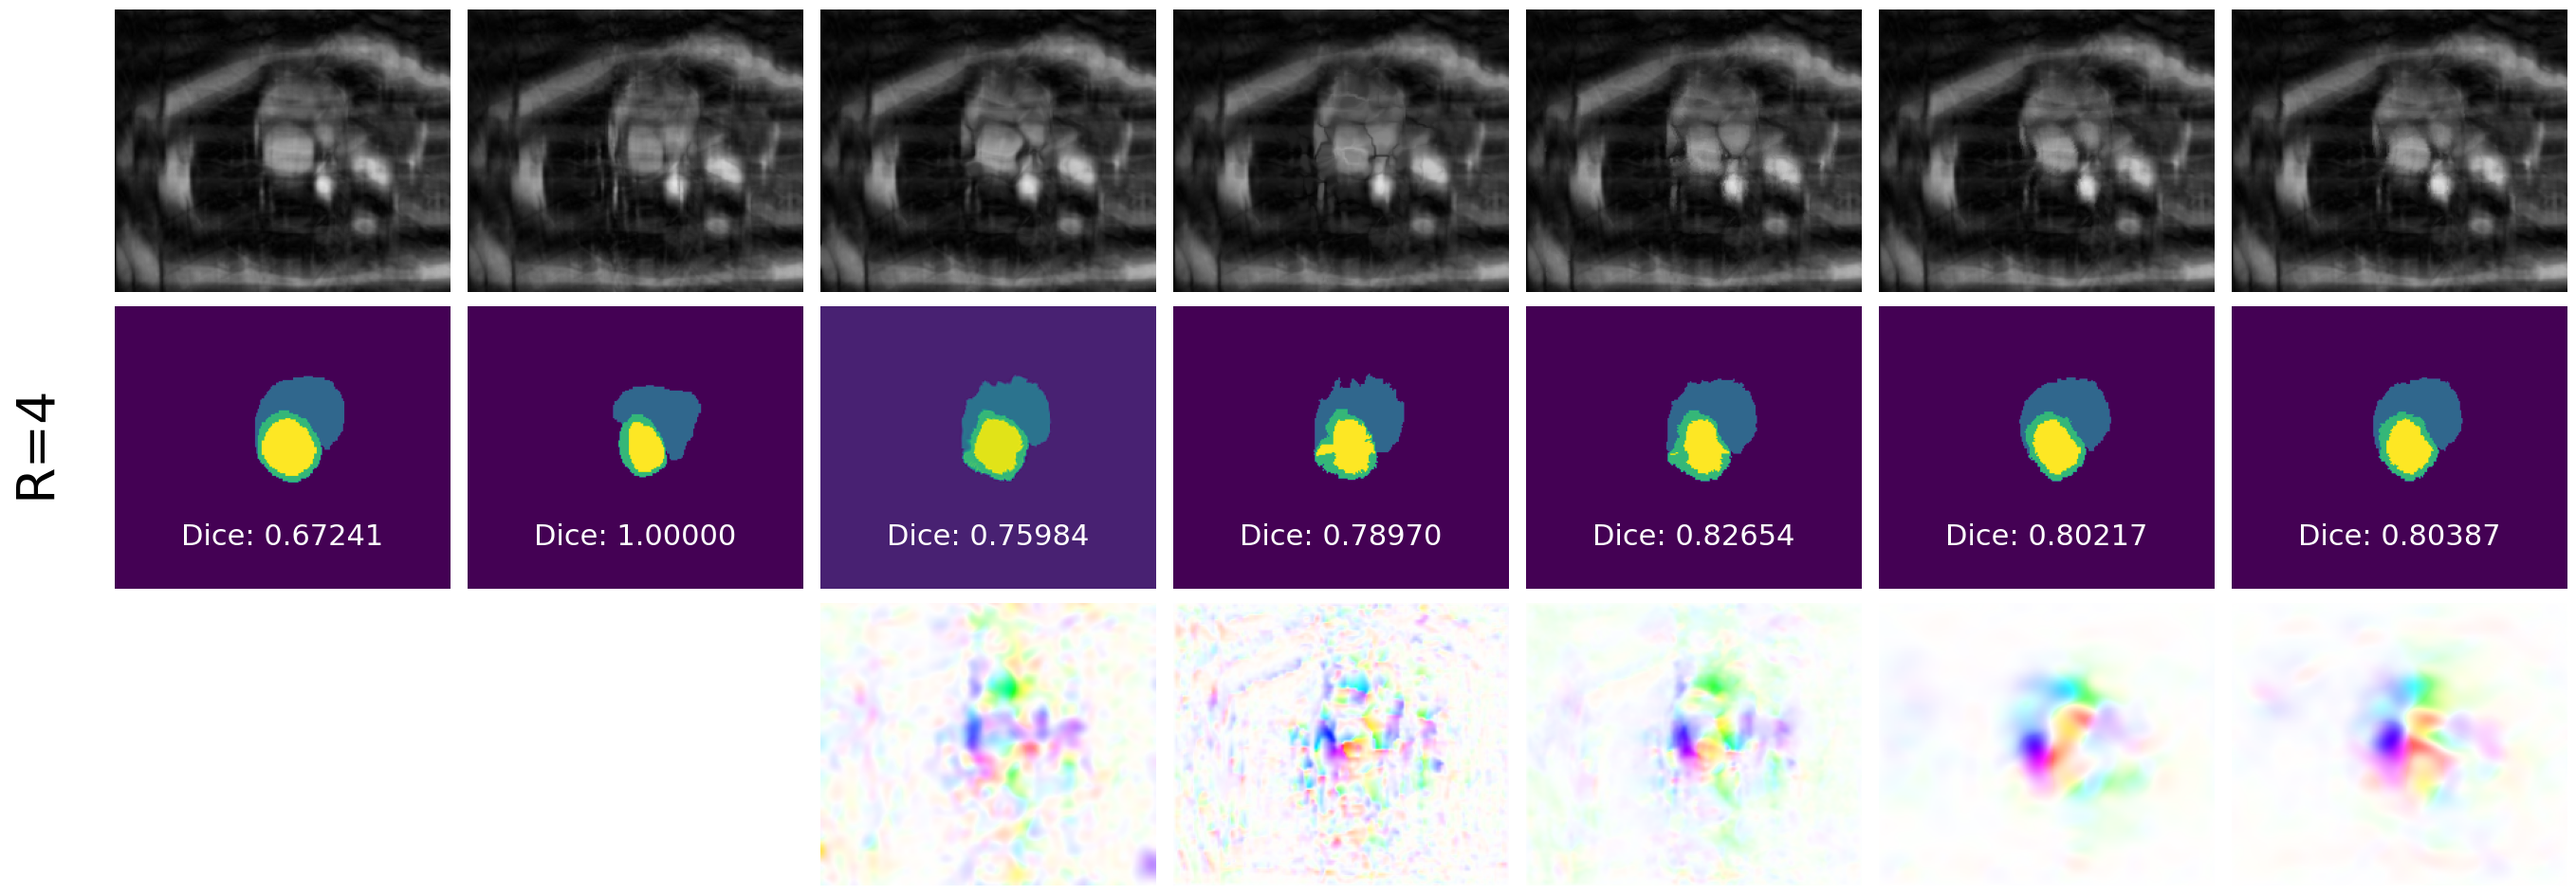
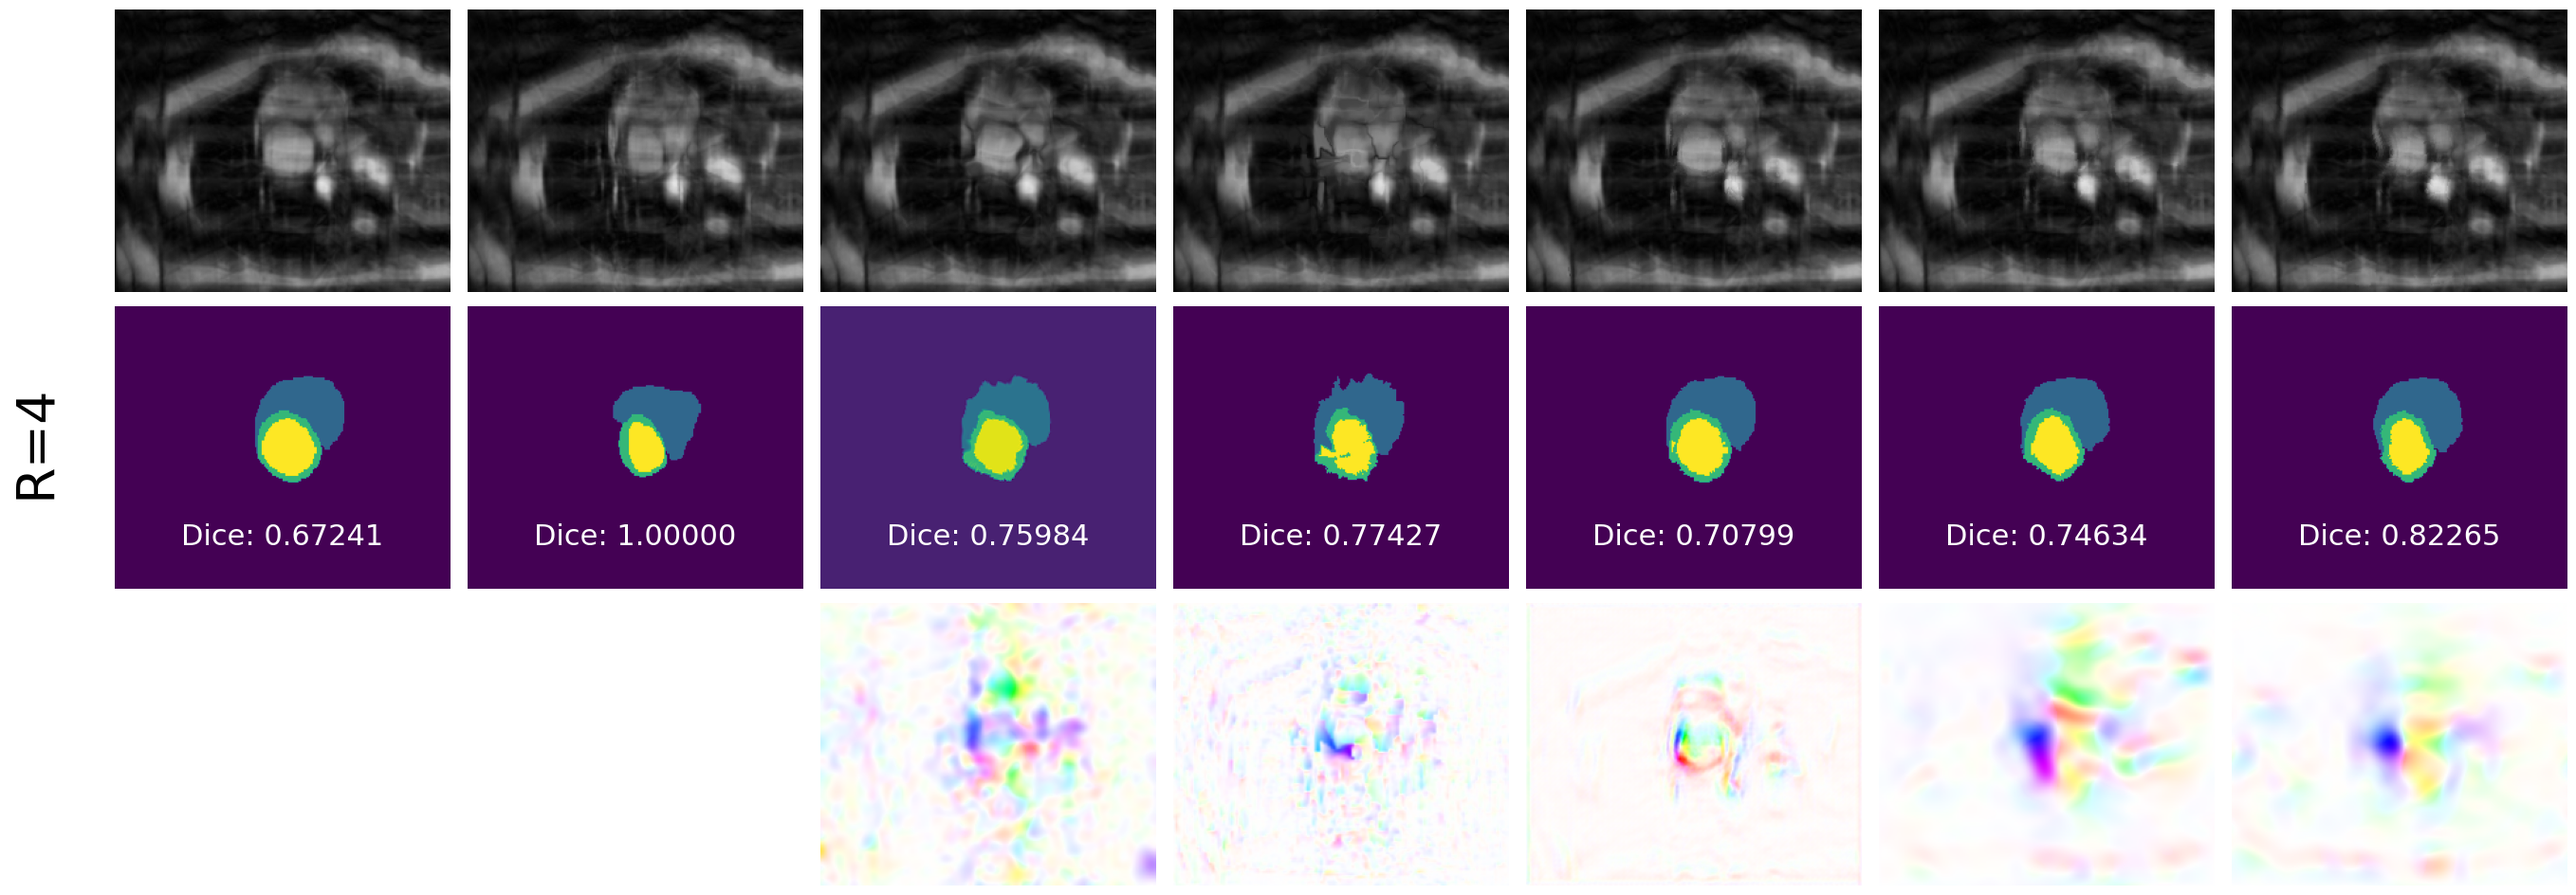
Added script to visualize test examples for contrastive loss and fixed network selection for the normal test examples that caused the deep network to only select networks trained on fully sampled data. Also generated the corresponding figure anew.

diff --git a/2D_CMR_Registration/VisualizeContrastiveLoss.py b/2D_CMR_Registration/VisualizeContrastiveLoss.py
@@ -1,0 +1,157 @@
+import os
+os.environ['NEURITE_BACKEND'] = 'pytorch'
+import matplotlib.pyplot as plt 
+import torch
+import torch.nn.functional as F
+from skimage.io import imread
+import neurite as ne
+from Models import *
+from argparse import ArgumentParser
+from natsort import natsorted
+from os import listdir
+import warnings
+warnings.filterwarnings("ignore")
+import pystrum
+import nibabel
+import flow_vis
+
+parser = ArgumentParser()
+parser.add_argument("--mode", type=int, dest="mode", default='1',
+                    help="choose dataset mode: 4x accelerated (1), 8x accelerated (2) or 10x accelerated (3)")
+opt = parser.parse_args()
+mode = opt.mode
+
+lambdas = [0,0.0005,0.001,0.005,0.01,0.05] # weightings for the contrastive loss
+
+start_channel = 16
+FT_size = [24,24]
+dataset = 'ACDC'
+input_shape = [216,256]
+diffeo = 0
+device = torch.device("cpu") #"cuda" if torch.cuda.is_available() else 
+transform = SpatialTransform().to(device)
+transform_voxelmorph = SpatialTransformer(input_shape, mode = 'nearest').to(device)
+
+# define paths to images and segmentations
+if mode == 1:
+    folder = 'AccFactor04'
+elif mode == 2:
+    folder = 'AccFactor08'
+elif mode == 3:
+    folder = 'AccFactor10'
+
+pathname1 = '/home/jmeyer/storage/students/janmeyer_711878/data/ACDC/' + folder + '/Test/patient081/Slice2/Image_Frame01.png'
+pathname2 = '/home/jmeyer/storage/students/janmeyer_711878/data/ACDC/' + folder + '/Test/patient081/Slice2/Image_Frame07.png' #13
+
+# path to save the plots to
+save_path = '/home/jmeyer/storage/students/janmeyer_711878/Master-Arbeit/Thesis/Images/'
+
+# read in images 
+moving_image = imread(pathname1, as_gray=True)/255
+fixed_image = imread(pathname2, as_gray=True)/255
+
+# read in segmentations (only have value 0 for background and 1,2,3 for structures)
+moving_seg = imread(pathname1.replace('Image','Segmentation'), as_gray=True)/3
+fixed_seg = imread(pathname2.replace('Image','Segmentation'), as_gray=True)/3
+
+# convert to tensors and add singleton dimension for the correct size
+moving_image        = torch.from_numpy(moving_image)
+fixed_image         = torch.from_numpy(fixed_image)
+moving_seg          = torch.from_numpy(moving_seg)
+fixed_seg           = torch.from_numpy(fixed_seg)
+
+# interpolate all images and segmentations to the same size
+moving_image        = F.interpolate(moving_image.unsqueeze(0).unsqueeze(0), (216,256), mode='bilinear').float().to(device)
+fixed_image         = F.interpolate(fixed_image.unsqueeze(0).unsqueeze(0), (216,256), mode='bilinear').float().to(device)
+
+# use nearest interpolation for the segmentations to preserve labels
+moving_seg          = F.interpolate(moving_seg.unsqueeze(0).unsqueeze(0), (216,256), mode='nearest').float().to(device)
+fixed_seg           = F.interpolate(fixed_seg.unsqueeze(0).unsqueeze(0), (216,256), mode='nearest').float().to(device)
+
+# init different models
+model_f_net              = Fourier_Net(2, 2, start_channel, diffeo).to(device)
+model_f_net_plus         = Fourier_Net_plus(2, 2, start_channel, diffeo, FT_size).to(device) 
+model_f_net_plus_cascade = Cascade(2, 2, start_channel, diffeo, FT_size).to(device)
+
+for l in lambdas:
+    # load different models
+    path_f_net      = './ModelParameters-{}/Model_{}_Diffeo_{}_Loss_{}_Chan_{}_FT_{}-{}_Smth_{}_LR_{}_Mode_{}_Pth/'.format(dataset,0,diffeo,5,start_channel,FT_size[0],FT_size[1],l,0.0001,mode)
+    modelpath_f_net = path_f_net + natsorted(listdir(path_f_net))[-1]
+    model_f_net.load_state_dict(torch.load(modelpath_f_net))
+    model_f_net.eval()
+    """
+    path_f_net_plus      = './ModelParameters-{}/Model_{}_Diffeo_{}_Loss_{}_Chan_{}_FT_{}-{}_Smth_{}_LR_{}_Mode_{}_Pth/'.format(dataset,1,diffeo,5,start_channel,FT_size[0],FT_size[1],0.01,0.0001,mode)
+    modelpath_f_net_plus = path_f_net_plus + natsorted(listdir(path_f_net_plus))[-1]
+    model_f_net_plus.load_state_dict(torch.load(modelpath_f_net_plus))
+    model_f_net_plus.eval()
+
+    path_f_net_plus_cascade      = './ModelParameters-{}/Model_{}_Diffeo_{}_Loss_{}_Chan_{}_FT_{}-{}_Smth_{}_LR_{}_Mode_{}_Pth/'.format(dataset,2,diffeo,5,start_channel,FT_size[0],FT_size[1],0.01,0.0001,mode)
+    modelpath_f_net_plus_cascade = path_f_net_plus_cascade + natsorted(listdir(path_f_net_plus_cascade))[-1]
+    model_f_net_plus_cascade.load_state_dict(torch.load(modelpath_f_net_plus_cascade))
+    model_f_net_plus_cascade.eval()
+    """
+    with torch.no_grad():
+        # get displacements for each model
+        V_f_net, __                             = model_f_net(moving_image,fixed_image)
+        #V_f_net_plus, __                        = model_f_net_plus(moving_image,fixed_image)
+        #V_f_net_plus_cascade, __                = model_f_net_plus_cascade(moving_image,fixed_image)
+
+    # warp moving images
+    __, warped_image_f_net              = transform(moving_image, V_f_net.permute(0, 2, 3, 1), mod = 'nearest')
+    #__, warped_image_f_net_plus         = transform(moving_image, V_f_net_plus.permute(0, 2, 3, 1), mod = 'nearest')
+    #__, warped_image_f_net_plus_cascade = transform(moving_image, V_f_net_plus_cascade.permute(0, 2, 3, 1), mod = 'nearest')
+
+    # warp segmentations
+    __, warped_seg_f_net                = transform(moving_seg, V_f_net.permute(0, 2, 3, 1), mod = 'nearest')
+    #__, warped_seg_f_net_plus           = transform(moving_seg, V_f_net_plus.permute(0, 2, 3, 1), mod = 'nearest')
+    #__, warped_seg_f_net_plus_cascade   = transform(moving_seg, V_f_net_plus_cascade.permute(0, 2, 3, 1), mod = 'nearest')
+
+    # save results
+    if l == 0:
+        # init lists with moving and fixed images
+        images = [moving_image,fixed_image]
+        titles = ['Moving','Fixed']
+        segmentations = [moving_seg,fixed_seg] 
+        # create empty flow fields for moving and fixed image
+        empty_flow = torch.zeros_like(V_f_net)
+        flows = [empty_flow,empty_flow]
+    # add images and segmentations for contrastive loss
+    images.append(warped_image_f_net)
+    segmentations.append(warped_seg_f_net)
+    flows.append(V_f_net) 
+    titles.append('\u03BB = {}'.format(l))
+   
+# init dices
+dices = []
+ 
+for seg in segmentations:
+    dices.append(np.mean(dice_ACDC(fixed_seg.data.cpu().numpy()[0, 0, ...],seg.data.cpu().numpy()[0, 0, ...])))
+
+# convert to flow images
+for i, flow in enumerate(flows):
+    flows[i] = flow_vis.flow_to_color(flow.data.cpu().squeeze().permute(1,2,0).numpy(), convert_to_bgr=False)
+
+# plot images and segmentations
+assert len(titles) == len(images), f"Every images needs a title!"
+
+fig, axs = plt.subplots(nrows=3, ncols=len(titles), figsize=(48, 12))  #, gridspec_kw = {'wspace':0, 'hspace':0}
+# plot segmentations
+for i in range(len(titles)):
+    # first column with images
+    ax = axs[0][i]
+    ax.axis('off')
+    ax.set_title(titles[i], fontsize=28) # title only for the images
+    ax.imshow(images[i].data.cpu().numpy()[0, 0, ...], cmap='gray', vmin=0, vmax = 1)
+    # second column with segmentations
+    ax = axs[1][i]
+    ax.axis('off')
+    ax.set_title('Dice: {:.5f}'.format(dices[i]), fontsize=22, y=0.125, color='white') # display dice scores
+    ax.imshow(segmentations[i].data.cpu().numpy()[0, 0, ...])
+    # third column with flows
+    ax = axs[2][i]
+    ax.axis('off')
+    ax.imshow(flows[i])   
+plt.axis('off')
+plt.subplots_adjust(wspace=-0.65, hspace=0.05) # make subplots tighter
+plt.savefig(save_path+'ContrastiveLoss_Mode{}.png'.format(mode), bbox_inches="tight") 
+plt.close()

diff --git a/2D_CMR_Registration/VisualizeTestExamples.py b/2D_CMR_Registration/VisualizeTestExamples.py
@@ -115,22 +115,22 @@ model_f_net_plus         = Fourier_Net_plus(2, 2, start_channel, diffeo, FT_size
 model_f_net_plus_cascade = Cascade(2, 2, start_channel, diffeo, FT_size).to(device)
 
 # load different models
-path_voxelmorph = './ModelParameters-{}/Voxelmorph_Loss_{}_Smth_{}_LR_{}_Mode_{}/'.format(dataset,0,0.01,0.0001,0) # for voxelmorph 0 is MSE loss
+path_voxelmorph = './ModelParameters-{}/Voxelmorph_Loss_{}_Smth_{}_LR_{}_Mode_{}/'.format(dataset,0,0.01,0.0001,mode) # for voxelmorph 0 is MSE loss
 modelpath_voxelmorph = path_voxelmorph + natsorted(listdir(path_voxelmorph))[-1]
 model_voxelmorph.load_state_dict(torch.load(modelpath_voxelmorph))
 model_voxelmorph.eval()
 
-path_f_net      = './ModelParameters-{}/Model_{}_Diffeo_{}_Loss_{}_Chan_{}_FT_{}-{}_Smth_{}_LR_{}_Mode_{}_Pth/'.format(dataset,0,diffeo,1,start_channel,FT_size[0],FT_size[1],0.01,0.0001,0)
+path_f_net      = './ModelParameters-{}/Model_{}_Diffeo_{}_Loss_{}_Chan_{}_FT_{}-{}_Smth_{}_LR_{}_Mode_{}_Pth/'.format(dataset,0,diffeo,1,start_channel,FT_size[0],FT_size[1],0.01,0.0001,mode)
 modelpath_f_net = path_f_net + natsorted(listdir(path_f_net))[-1]
 model_f_net.load_state_dict(torch.load(modelpath_f_net))
 model_f_net.eval()
 
-path_f_net_plus      = './ModelParameters-{}/Model_{}_Diffeo_{}_Loss_{}_Chan_{}_FT_{}-{}_Smth_{}_LR_{}_Mode_{}_Pth/'.format(dataset,1,diffeo,1,start_channel,FT_size[0],FT_size[1],0.01,0.0001,0)
+path_f_net_plus      = './ModelParameters-{}/Model_{}_Diffeo_{}_Loss_{}_Chan_{}_FT_{}-{}_Smth_{}_LR_{}_Mode_{}_Pth/'.format(dataset,1,diffeo,1,start_channel,FT_size[0],FT_size[1],0.01,0.0001,mode)
 modelpath_f_net_plus = path_f_net_plus + natsorted(listdir(path_f_net_plus))[-1]
 model_f_net_plus.load_state_dict(torch.load(modelpath_f_net_plus))
 model_f_net_plus.eval()
 
-path_f_net_plus_cascade      = './ModelParameters-{}/Model_{}_Diffeo_{}_Loss_{}_Chan_{}_FT_{}-{}_Smth_{}_LR_{}_Mode_{}_Pth/'.format(dataset,2,diffeo,1,start_channel,FT_size[0],FT_size[1],0.01,0.0001,0)
+path_f_net_plus_cascade      = './ModelParameters-{}/Model_{}_Diffeo_{}_Loss_{}_Chan_{}_FT_{}-{}_Smth_{}_LR_{}_Mode_{}_Pth/'.format(dataset,2,diffeo,1,start_channel,FT_size[0],FT_size[1],0.01,0.0001,mode)
 modelpath_f_net_plus_cascade = path_f_net_plus_cascade + natsorted(listdir(path_f_net_plus_cascade))[-1]
 model_f_net_plus_cascade.load_state_dict(torch.load(modelpath_f_net_plus_cascade))
 model_f_net_plus_cascade.eval()
@@ -171,6 +171,7 @@ flows = [empty_flow,empty_flow,displacement_nifti,V_voxelmorph,V_f_net,V_f_net_p
 # convert to flow images
 for i, flow in enumerate(flows):
     if i == 2:
+        # input flow for NiftyReg directly
         flows[i] = flow_vis.flow_to_color(flow, convert_to_bgr=False)
     else:
         flows[i] = flow_vis.flow_to_color(flow.data.cpu().squeeze().permute(1,2,0).numpy(), convert_to_bgr=False)
